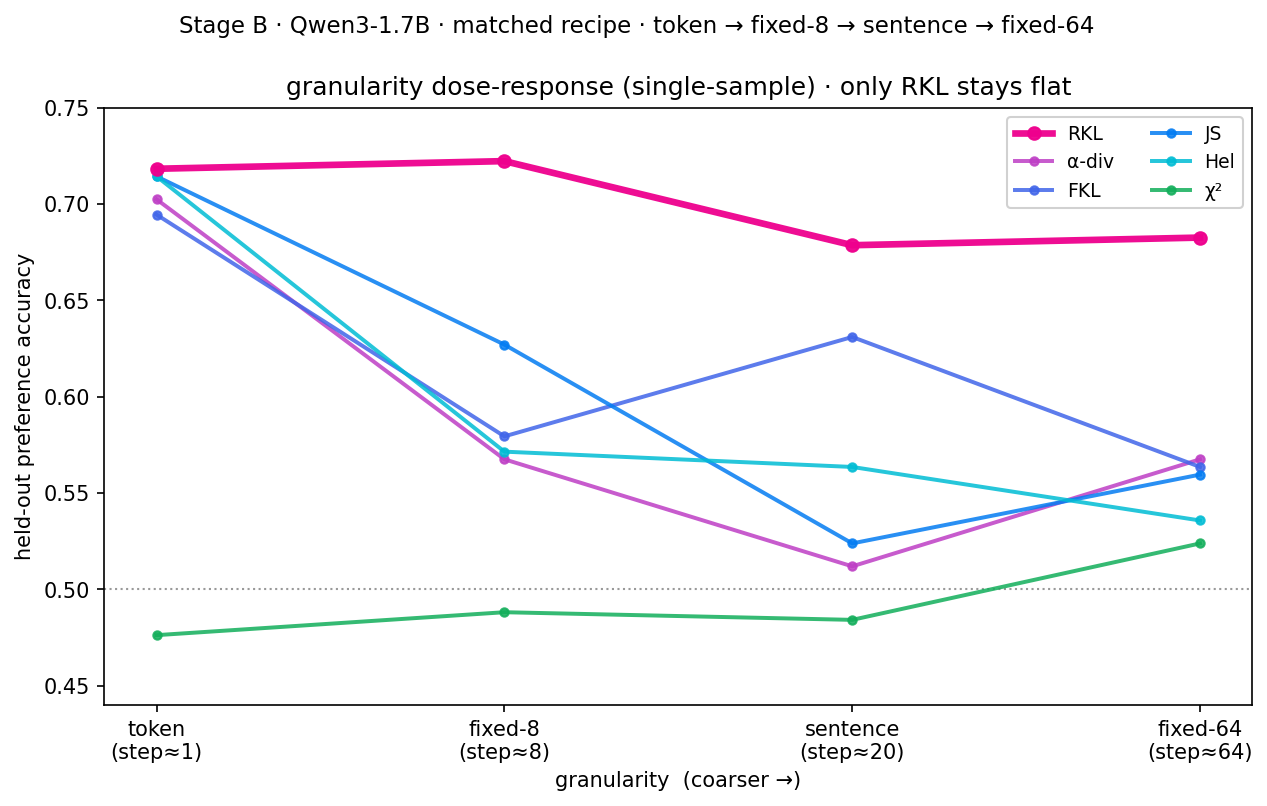
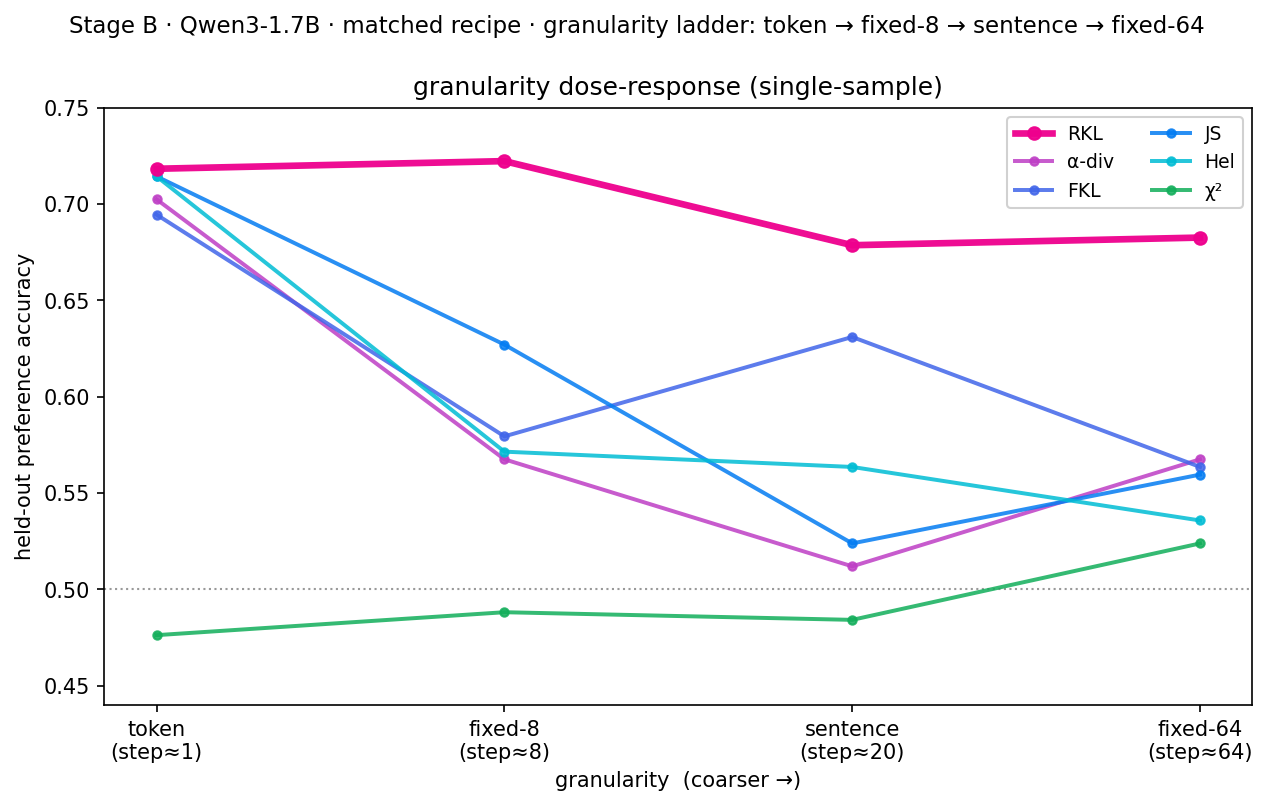
figs: --recipe {matched,light} for ladder + estimators; generate light versions
fig_stage_ladder/fig_stage_estimators now take --recipe (light reads results/sft1p7b _light1p7b tags).
Adds stageB_light_granularity-ladder_single.png and stageB_light_sentence_single-vs-kln-vs-trl.png for
the Notion summary (light vs matched side by side).

Changed region(s): [[0.0616, 0.0, 0.6464, 0.062], [0.2155, 0.0931, 0.8619, 0.1241], [0.6772, 0.0, 0.9542, 0.062]]

diff --git a/llm/fig_stage_ladder.py b/llm/fig_stage_ladder.py
@@ -19,8 +19,10 @@ import matplotlib.pyplot as plt
 
 from divergences import KEYS, SHORT, COLORS
 
-RUNGS = [("token", "match1p7b"), ("fixed-8", "s8_match1p7b"),
-         ("sentence", "newline_match1p7b"), ("fixed-64", "s64_match1p7b")]
+RUNGS_MATCHED = [("token", "match1p7b"), ("fixed-8", "s8_match1p7b"),
+                 ("sentence", "newline_match1p7b"), ("fixed-64", "s64_match1p7b")]
+RUNGS_LIGHT = [("token", "token_light1p7b"), ("fixed-8", "s8_light1p7b"),
+               ("sentence", "newline_light1p7b"), ("fixed-64", "s64_light1p7b")]
 
 
 def _le(h):
@@ -35,9 +37,13 @@ def val(d, div, tag):
 
 def main():
     ap = argparse.ArgumentParser()
-    ap.add_argument("--dir", default="results/matched")
-    ap.add_argument("--out", default="results/stageB_matched_granularity-ladder_single")
+    ap.add_argument("--recipe", default="matched", choices=["matched", "light"])
+    ap.add_argument("--dir", default=None)
+    ap.add_argument("--out", default=None)
     args = ap.parse_args()
+    RUNGS = RUNGS_LIGHT if args.recipe == "light" else RUNGS_MATCHED
+    args.dir = args.dir or ("results/sft1p7b" if args.recipe == "light" else "results/matched")
+    args.out = args.out or f"results/stageB_{args.recipe}_granularity-ladder_single"
 
     order = [k for k in KEYS if k != "euc"]
     xs = np.arange(len(RUNGS))
@@ -52,9 +58,9 @@ def main():
                                            zip([r[0] for r in RUNGS], [1, 8, "20", 64])])
     ax.set_ylabel("held-out preference accuracy"); ax.set_xlabel("granularity  (coarser →)")
     ax.set_ylim(0.44, 0.75)
-    ax.set_title("granularity dose-response (single-sample) · only RKL stays flat")
+    ax.set_title("granularity dose-response (single-sample)")
     ax.legend(ncol=2, fontsize=9, framealpha=0.9)
-    fig.suptitle("Stage B · Qwen3-1.7B · matched recipe · token → fixed-8 → sentence → fixed-64", fontsize=11, y=0.99)
+    fig.suptitle(f"Stage B · Qwen3-1.7B · {args.recipe} recipe · granularity ladder: token → fixed-8 → sentence → fixed-64", fontsize=11, y=0.99)
     fig.tight_layout(); fig.savefig(args.out + ".png", dpi=150, bbox_inches="tight")
     print("wrote", args.out + ".png")
     for k in order:

diff --git a/llm/fig_stage_estimators.py b/llm/fig_stage_estimators.py
@@ -32,8 +32,8 @@ def _last_eval(h):
     return e[-1] if e else {}
 
 
-def load(d, div, suf):
-    f = os.path.join(d, f"stageB_{div}_newline{suf}_match1p7b.json")
+def load(d, div, suf, rtag):
+    f = os.path.join(d, f"stageB_{div}_newline{suf}_{rtag}.json")
     if not os.path.exists(f):
         return None
     h = json.load(open(f))["history"]
@@ -42,12 +42,16 @@ def load(d, div, suf):
 
 def main():
     ap = argparse.ArgumentParser()
-    ap.add_argument("--dir", default="results/matched")
-    ap.add_argument("--out", default="results/stageB_matched_sentence_single-vs-kln-vs-trl")
+    ap.add_argument("--recipe", default="matched", choices=["matched", "light"])
+    ap.add_argument("--dir", default=None)
+    ap.add_argument("--out", default=None)
     args = ap.parse_args()
+    rtag = "light1p7b" if args.recipe == "light" else "match1p7b"
+    args.dir = args.dir or ("results/sft1p7b" if args.recipe == "light" else "results/matched")
+    args.out = args.out or f"results/stageB_{args.recipe}_sentence_single-vs-kln-vs-trl"
 
     order = [k for k in KEYS if k != "euc"]
-    data = {lab: {k: load(args.dir, k, suf) for k in order} for lab, suf, _, _ in VARIANTS}
+    data = {lab: {k: load(args.dir, k, suf, rtag) for k in order} for lab, suf, _, _ in VARIANTS}
     order = [k for k in order if all(data[lab].get(k) for lab, *_ in VARIANTS)]
     if not order:
         raise SystemExit("need newline + newline_kln + newline_trl jsons in " + args.dir)
@@ -70,7 +74,7 @@ def main():
     axL.legend(handles=leg, fontsize=8, loc="upper right", ncol=3)
     for ax in (axL, axR):
         ax.set_xticks(x); ax.set_xticklabels([SHORT[k] for k in order])
-    fig.suptitle("Stage B · Qwen3-1.7B · newline estimators: single-sample vs kln vs TRL (matched recipe)", fontsize=11, y=1.0)
+    fig.suptitle(f"Stage B · Qwen3-1.7B · {args.recipe} recipe · newline estimators: single vs kln vs TRL", fontsize=11, y=1.0)
     fig.tight_layout(); fig.savefig(args.out + ".png", dpi=150, bbox_inches="tight")
     print("wrote", args.out + ".png")
     for lab, *_ in VARIANTS:
